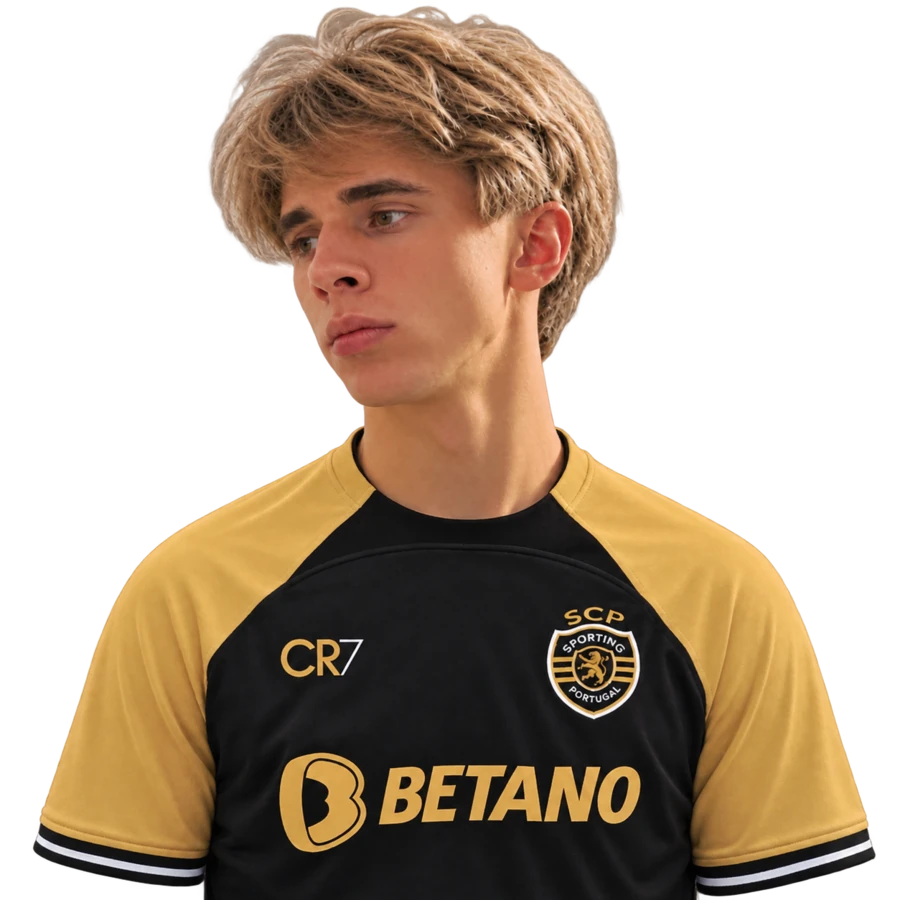
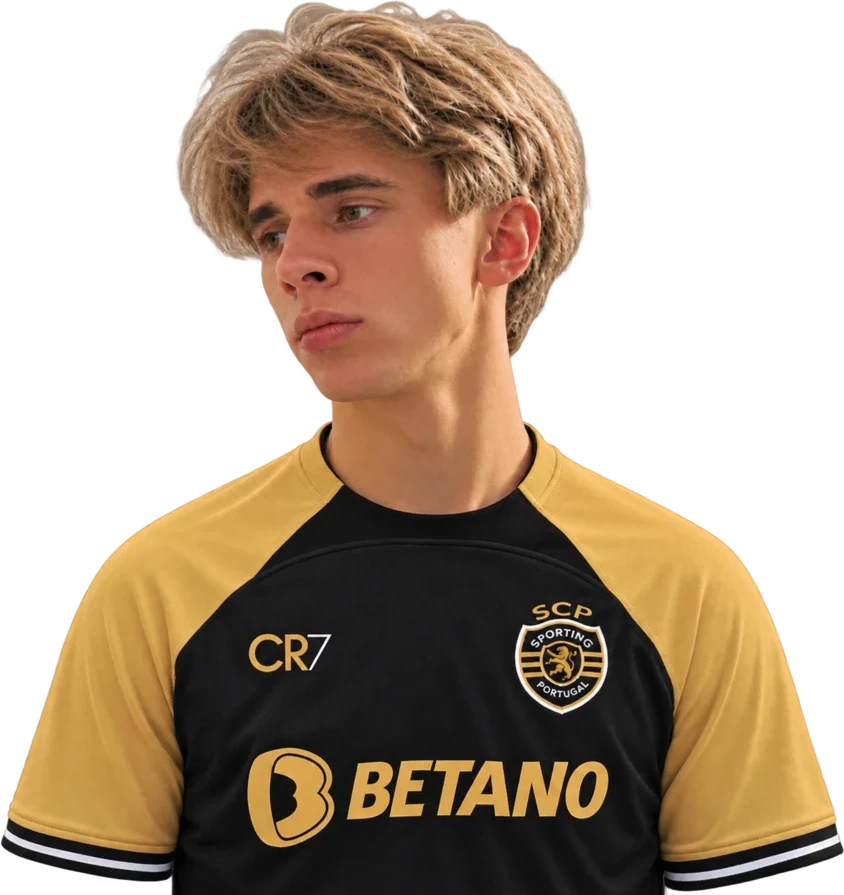
Fix portrait alpha crop and first-screen alignment

diff --git a/index.html b/index.html
@@ -11,9 +11,15 @@ h1.d{font-size:clamp(67px,10.6vw,164px)}
 .hero{min-height:min(680px,calc(100svh - 72px));display:grid;grid-template-columns:1.25fr .75fr;border-bottom:3px solid var(--ink)}.copy{display:flex;flex-direction:column;justify-content:space-between;gap:42px;padding:clamp(28px,5vw,64px) clamp(16px,4vw,48px)}h1{margin:0;font-size:clamp(67px,10.6vw,164px)}h1 span{display:block}h1 .solid{display:inline-block;padding:.01em .08em .06em;background:var(--ink);color:var(--on)}.intro{max-width:62ch}.intro p{margin:0 0 22px;font-weight:700}.jump{border-bottom:3px solid var(--ink);font-weight:700}.portrait{position:relative;min-height:440px;background:var(--ink);overflow:visible}.portrait:before{content:"SA1N1O";position:absolute;top:24px;left:0;right:0;color:var(--on);font:700 clamp(64px,8vw,118px)/.9 var(--display);text-align:center}.portrait img{position:absolute;left:50%;bottom:-4%;width:108%;height:108%;object-fit:contain;object-position:center bottom;transform:translateX(-50%)}
 .statement{display:grid;grid-template-columns:1.4fr .6fr;align-items:end;gap:32px;padding:clamp(42px,7vw,92px) clamp(16px,4vw,40px);border-bottom:3px solid var(--ink)}.statement h2{max-width:12ch;margin:0;font-size:clamp(50px,9vw,130px)}.statement p{margin:0;font-weight:700}.head{display:flex;align-items:end;justify-content:space-between;gap:16px;padding:30px clamp(16px,4vw,40px) 18px}.head h2{margin:0;font-size:clamp(47px,8vw,100px)}.head span{font-size:13px;font-weight:700}.links{display:grid;grid-template-columns:repeat(3,1fr);border-top:3px solid var(--ink)}.card{min-height:190px;display:flex;flex-direction:column;justify-content:space-between;gap:26px;padding:22px clamp(16px,3vw,28px);border:0;border-right:3px solid var(--ink);border-bottom:3px solid var(--ink);border-radius:0;background:var(--bg);text-align:left;cursor:pointer}.card:nth-child(3n){border-right:0}.card:hover,.card:focus-visible{background:var(--ink);color:var(--on)}.card:focus-visible{outline-color:var(--on);outline-offset:-8px}.card-top{display:flex;justify-content:space-between;gap:18px}.card small{font-size:12px;font-weight:700}.icon{width:36px;height:36px;flex:0 0 36px;fill:currentColor}.card strong{font-size:clamp(29px,4vw,50px)}.notice{margin:0;padding:20px clamp(16px,4vw,40px);border-bottom:3px solid var(--ink);font-size:14px;font-weight:700}.ad{display:grid;grid-template-columns:1fr auto;align-items:center;gap:22px;padding:30px clamp(16px,4vw,40px);border-bottom:3px solid var(--ink)}.ad h2{margin:0;font-size:clamp(42px,7vw,82px)}.ad p{font-weight:700}.ad a{border-bottom:3px solid var(--ink)}footer{display:grid;grid-template-columns:1fr auto;gap:24px;padding:30px clamp(16px,4vw,40px);background:var(--ink);color:var(--on);font-size:13px;font-weight:700}.foot-info{display:grid;gap:10px}.foot-links{display:flex;gap:18px;flex-wrap:wrap}footer a{border-bottom:2px solid currentColor}
 body.loading .header,body.loading .copy>*{animation:enter .65s both}body.loading .copy>:last-child{animation-delay:.12s}body.loading .portrait img{animation:photo .65s .2s both}@keyframes enter{from{opacity:0;transform:translateY(18px)}to{opacity:1;transform:none}}@keyframes photo{from{opacity:0;transform:translate(-50%,18px)}to{opacity:1;transform:translate(-50%,0)}}@media(prefers-reduced-motion:reduce){html{scroll-behavior:auto}body.loading *{animation:none!important}}@media(max-width:900px){nav{display:none}.hero{grid-template-columns:1fr}.copy{min-height:500px}.portrait{min-height:min(118vw,570px)}.statement{grid-template-columns:1fr}.links{grid-template-columns:repeat(2,1fr)}.card:nth-child(3n){border-right:3px solid var(--ink)}.card:nth-child(2n){border-right:0}.ad{grid-template-columns:1fr}}@media(max-width:520px){.header{align-items:flex-start}.brand{max-width:190px}.theme{min-width:42px;font-size:0}.theme:first-letter{font-size:16px}h1{font-size:clamp(61px,20vw,92px)}.copy{min-height:470px}.statement h2{font-size:clamp(48px,15vw,76px)}.head{align-items:start;flex-direction:column}.links{grid-template-columns:1fr}.card{min-height:145px;border-right:0!important}.ad h2{font-size:48px}footer{grid-template-columns:1fr}}
+</style><style>
+.portrait{position:relative;overflow:hidden;display:flex;align-items:flex-end;justify-content:center;line-height:0;padding:clamp(86px,10vw,130px) clamp(12px,7vw,56px) 0;border:0;outline:0;box-shadow:none;filter:none;mask:none}
+.portrait-label{position:absolute;z-index:0;top:24px;left:0;right:0;color:var(--on);font:700 clamp(64px,8vw,118px)/.9 var(--display);text-align:center;line-height:.9}
+.portrait:before,.portrait:after{content:none}
+.portrait img{position:relative;z-index:1;left:auto;right:auto;top:auto;bottom:auto;display:block;width:auto;height:100%;max-width:100%;margin:0;padding:0;object-fit:contain;object-position:center bottom;transform:none;border:0;outline:0;box-shadow:none;filter:none;mask:none}
+@keyframes photo{from{opacity:0;transform:translateY(18px)}to{opacity:1;transform:none}}
 </style><script>(function(){try{var t=localStorage.getItem("theme")||(matchMedia("(prefers-color-scheme:dark)").matches?"dark":"light");document.documentElement.dataset.theme=t}catch(e){}})()</script></head>
 <body class="loading"><header class="header"><a class="brand" href="#top">Eleganthy × sa1n1o</a><div class="actions"><nav aria-label="Основная навигация"><a href="#social">Соцсети</a><a href="#support">Поддержать</a><a href="#advertising">Реклама</a></nav><button class="theme" id="theme" type="button">◐ Тёмная тема</button></div></header>
-<main id="top"><section class="hero"><div class="copy"><h1 class="d"><span>Eleganthy</span><span class="solid">× sa1n1o</span></h1><div class="intro"><p>Привет, друг! Меня зовут Сергей. Я занимаюсь YouTube и стримами с 2020 года, но это всё неважно.</p><p>Здесь ты найдёшь мои социальные сети, способы поддержать творчество и контакты для рекламы.</p><a class="jump" href="#social">Все мои ссылки ↓</a></div></div><div class="portrait" style="overflow:hidden"><img id="portrait" src="photo-light.webp" data-light="photo-light.webp" data-dark="photo-dark.webp" width="900" height="900" alt="Сергей / Eleganthy × sa1n1o" style="width:100%;height:105%;bottom:-1%;object-position:50% 100%"></div></section>
+<main id="top"><section class="hero"><div class="copy"><h1 class="d"><span>Eleganthy</span><span class="solid">× sa1n1o</span></h1><div class="intro"><p>Привет, друг! Меня зовут Сергей. Я занимаюсь YouTube и стримами с 2020 года, но это всё неважно.</p><p>Здесь ты найдёшь мои социальные сети, способы поддержать творчество и контакты для рекламы.</p><a class="jump" href="#social">Все мои ссылки ↓</a></div></div><div class="portrait"><span class="portrait-label" aria-hidden="true">SA1N1O</span><img id="portrait" src="photo-light.webp" data-light="photo-light.webp" data-dark="photo-dark.webp" width="816" height="866" alt="Сергей / Eleganthy × sa1n1o"></div></section>
 <section class="statement"><h2 class="d">Всё важное — в одном месте.</h2><p>Стримы, видео, соцсети и поддержка. Выбирай нужную карточку.</p></section><section id="social"><div class="head"><h2 class="d">Социальные сети</h2><span id="social-count"></span></div><div class="links" id="social-grid"></div><p class="notice">* Meta признана экстремистской организацией и запрещена на территории РФ.</p></section><section id="support"><div class="head"><h2 class="d">Поддержать</h2><span id="support-count"></span></div><div class="links" id="support-grid"></div></section><section class="ad" id="advertising"><h2 class="d">Реклама</h2><p>Для рекламы и сотрудничества: <a href="mailto:businesssainto@gmail.com">businesssainto@gmail.com</a></p></section></main>
 <footer><div class="foot-info"><span>Сергей / Eleganthy × sa1n1o, 2026</span><span>Сайт не использует cookies и не собирает персональные данные. Выбор темы хранится только в localStorage вашего браузера.</span></div><div class="foot-links"><a href="privacy.html">Конфиденциальность</a><a href="mailto:businesssainto@gmail.com">businesssainto@gmail.com</a></div></footer><div id="status" role="status" aria-live="polite" hidden></div>
 <script>
